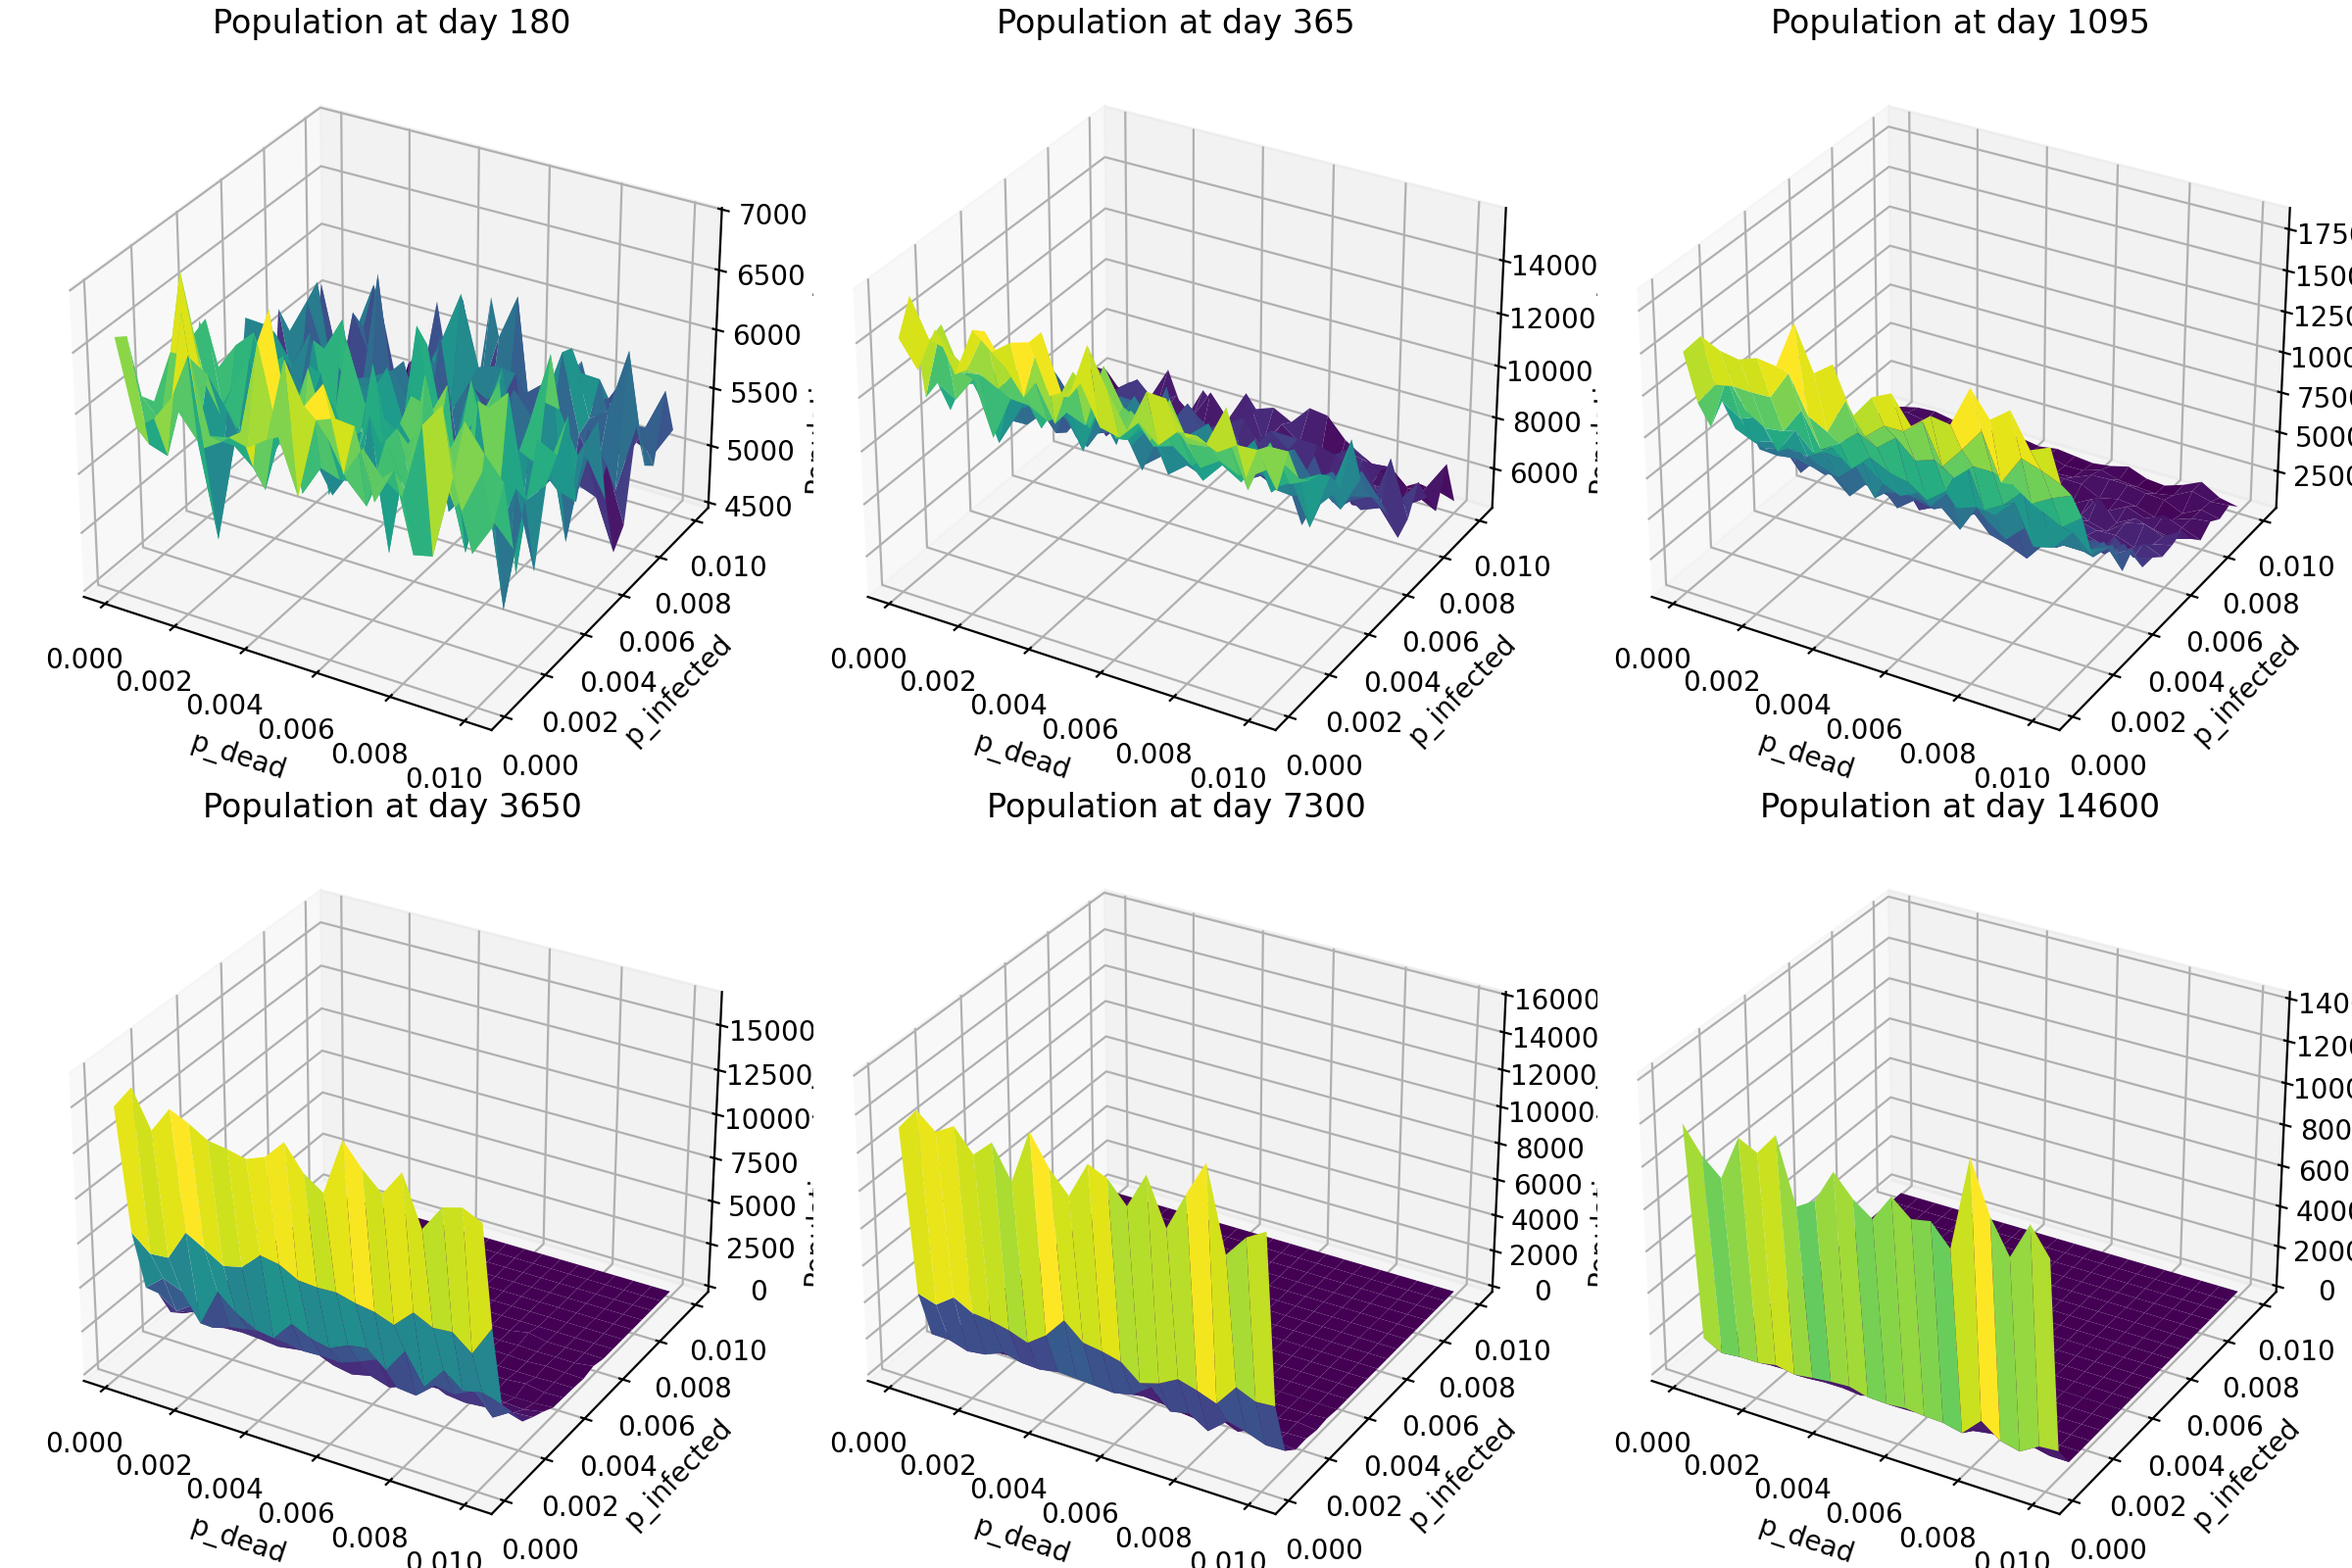
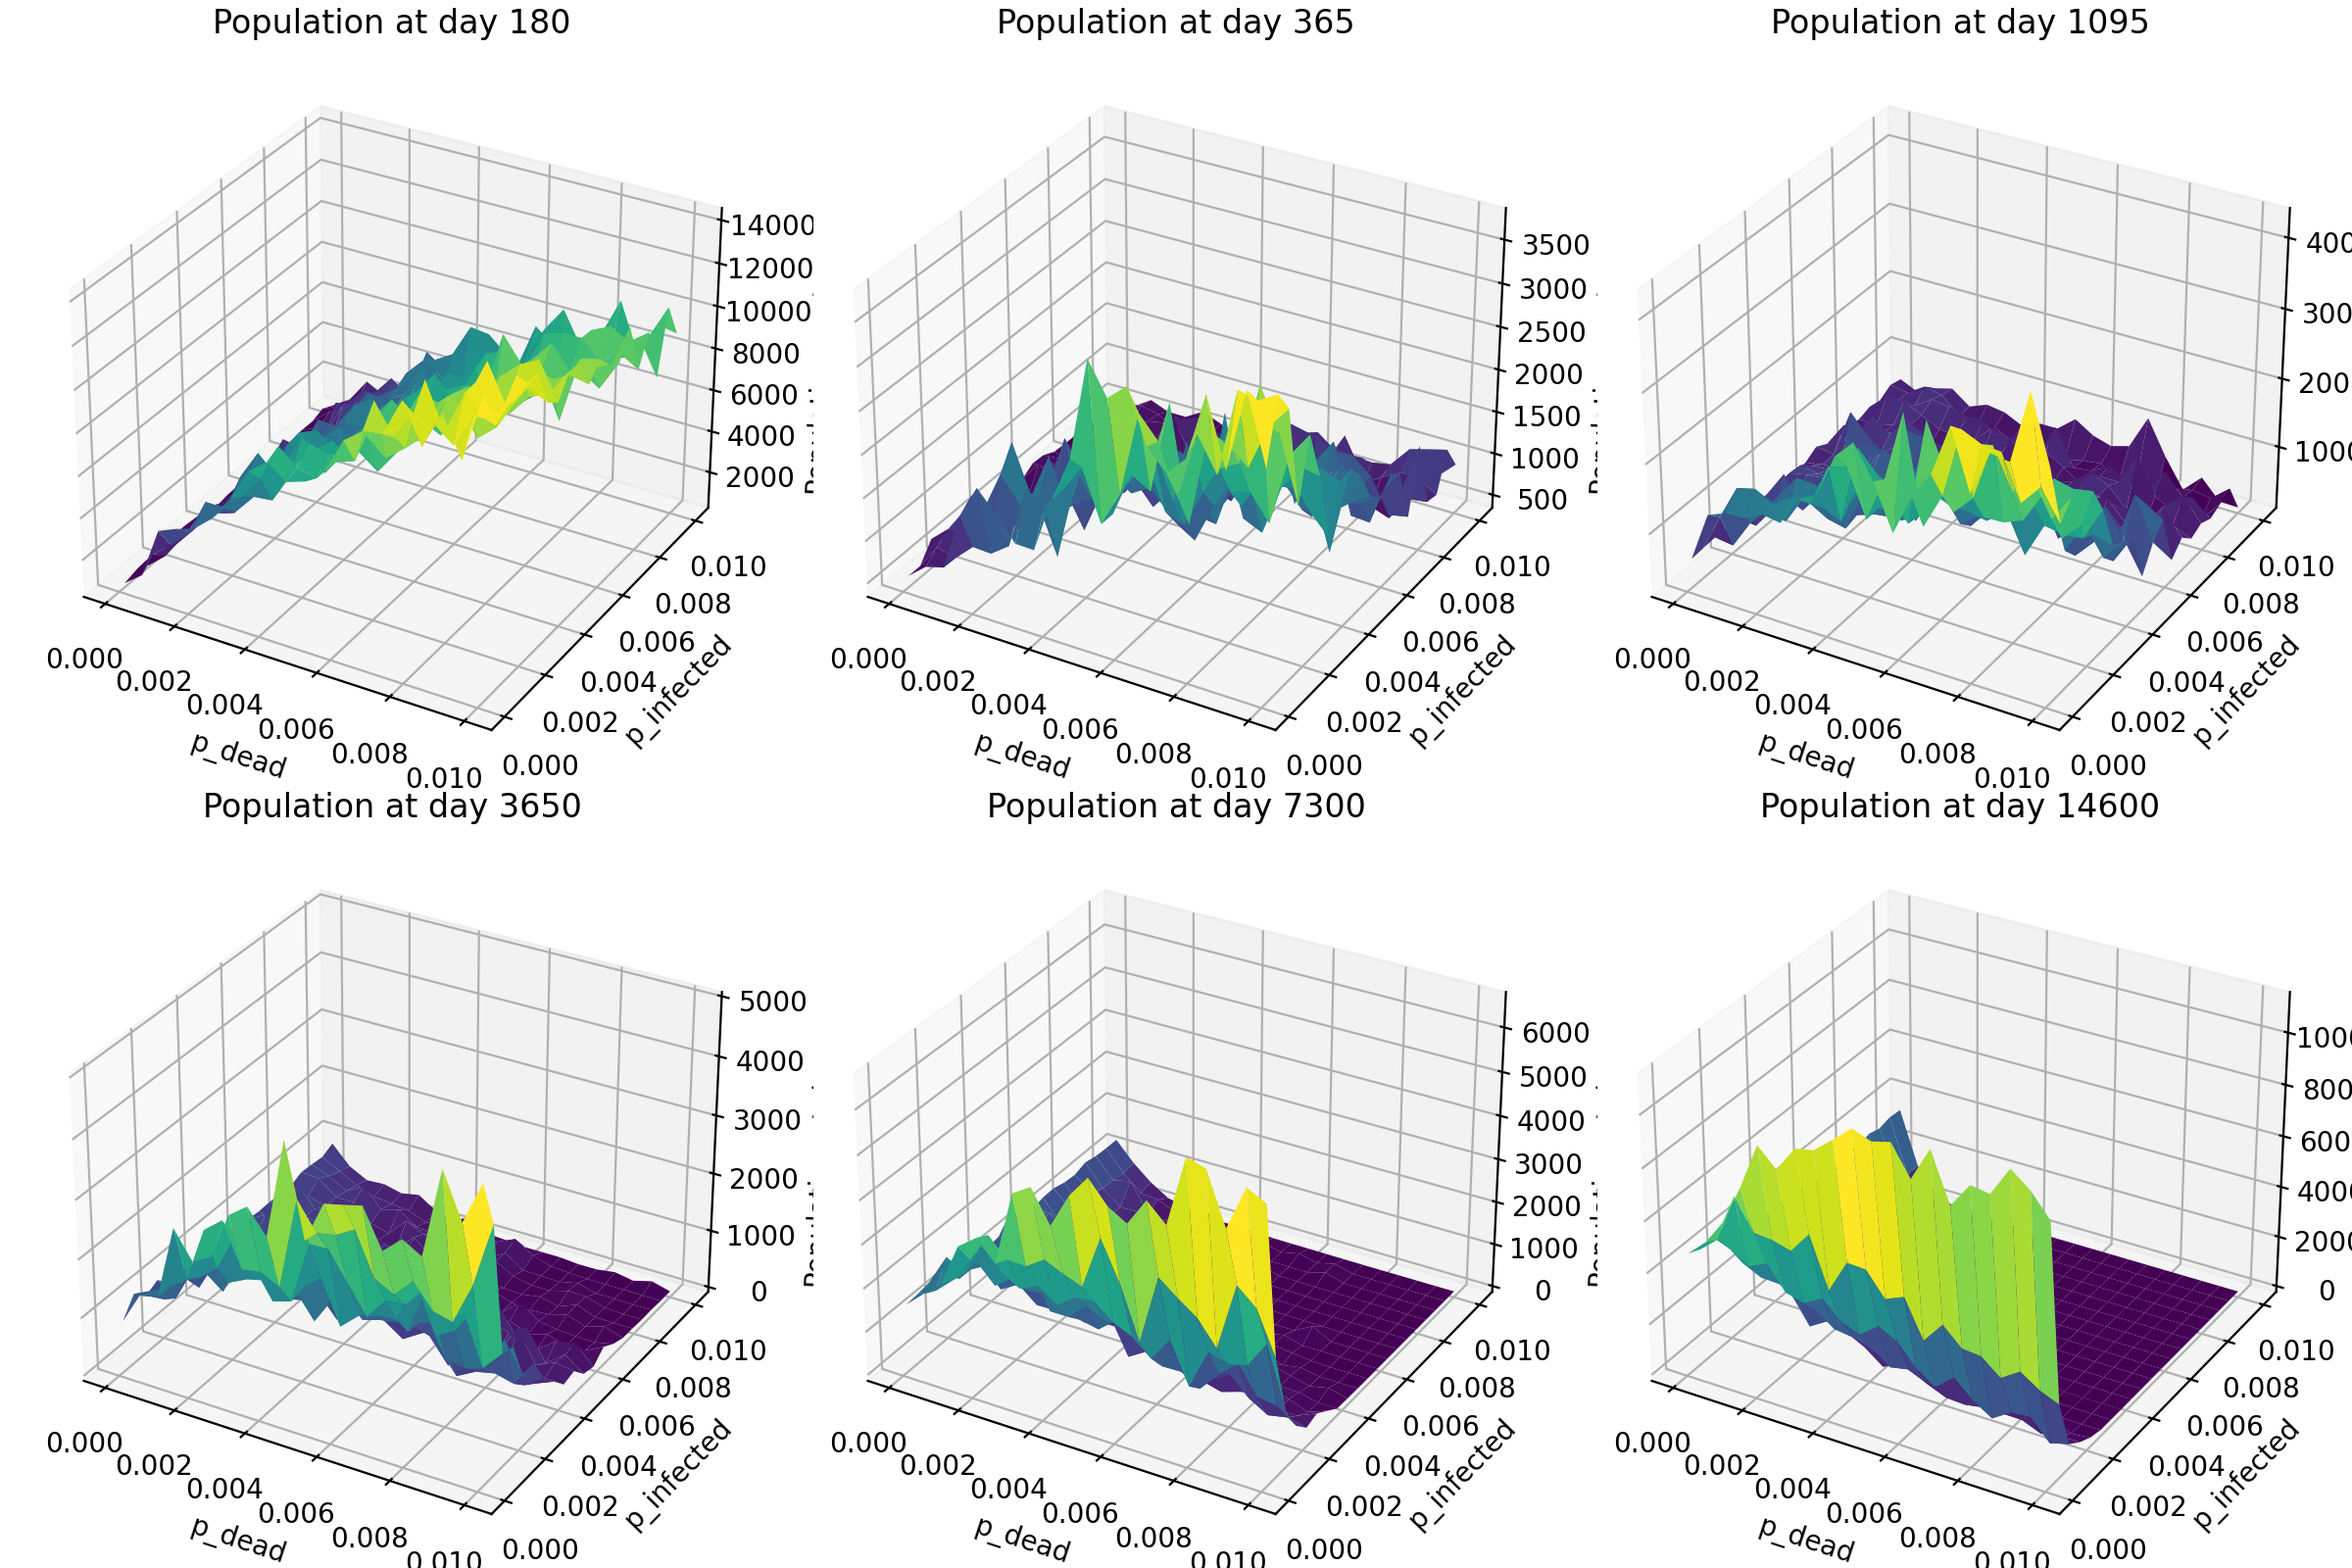
try last ifx

diff --git a/simulate/rules.py b/simulate/rules.py
@@ -126,7 +126,8 @@ def update_individuals(state, env, parameters):
     # Influx (summer only)
     # --------------------
     if Te == 1:
-        n_influx = len(NHi_NIn_next) + len(Ot_next) # active bats reproduce
+        n_influx = len(NHi_NIn_next) + len(Ot_next) - len(In_next)
+        n_influx = max(n_influx, 0) # active and NON-infected bats reproduce
         
         births = 0
         for _ in range(n_influx):
